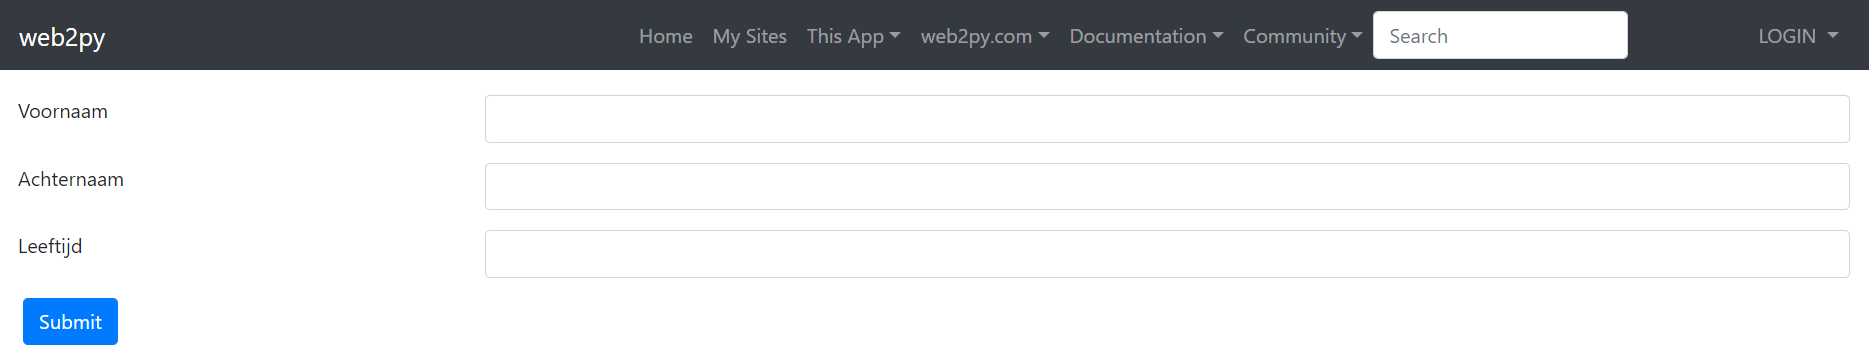
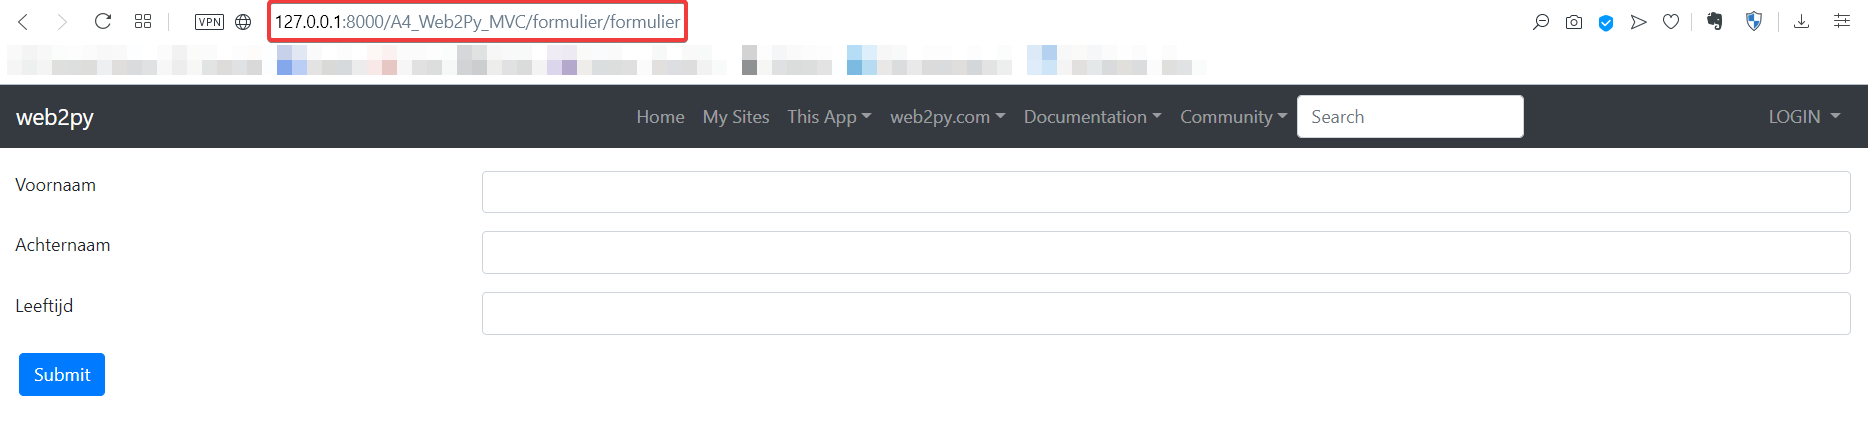
*screenshots veranderd + link in de view naar een andere controller + view

diff --git a/views/home/home.html b/views/home/home.html
@@ -3,3 +3,4 @@
 <!-- door hier msg aan te roepen, laat ik de msg variabele zien die ik meegegeven heb
      vanuit de controller -->
 {{=msg}}
+<a href="{{=link}}">Klik hier</a>

diff --git a/controllers/home.py b/controllers/home.py
@@ -6,4 +6,5 @@ def home():
     helloworld = "Hello, world!"
     # door msg te returnen als waarde, kan ik deze aanroepen in de bijbehorende view
     # de view die hier dus bij hoort is home.html in views/home
-    return dict(msg=helloworld)
+    link = URL('formulier', 'formulier')
+    return dict(msg=helloworld, link=link)
